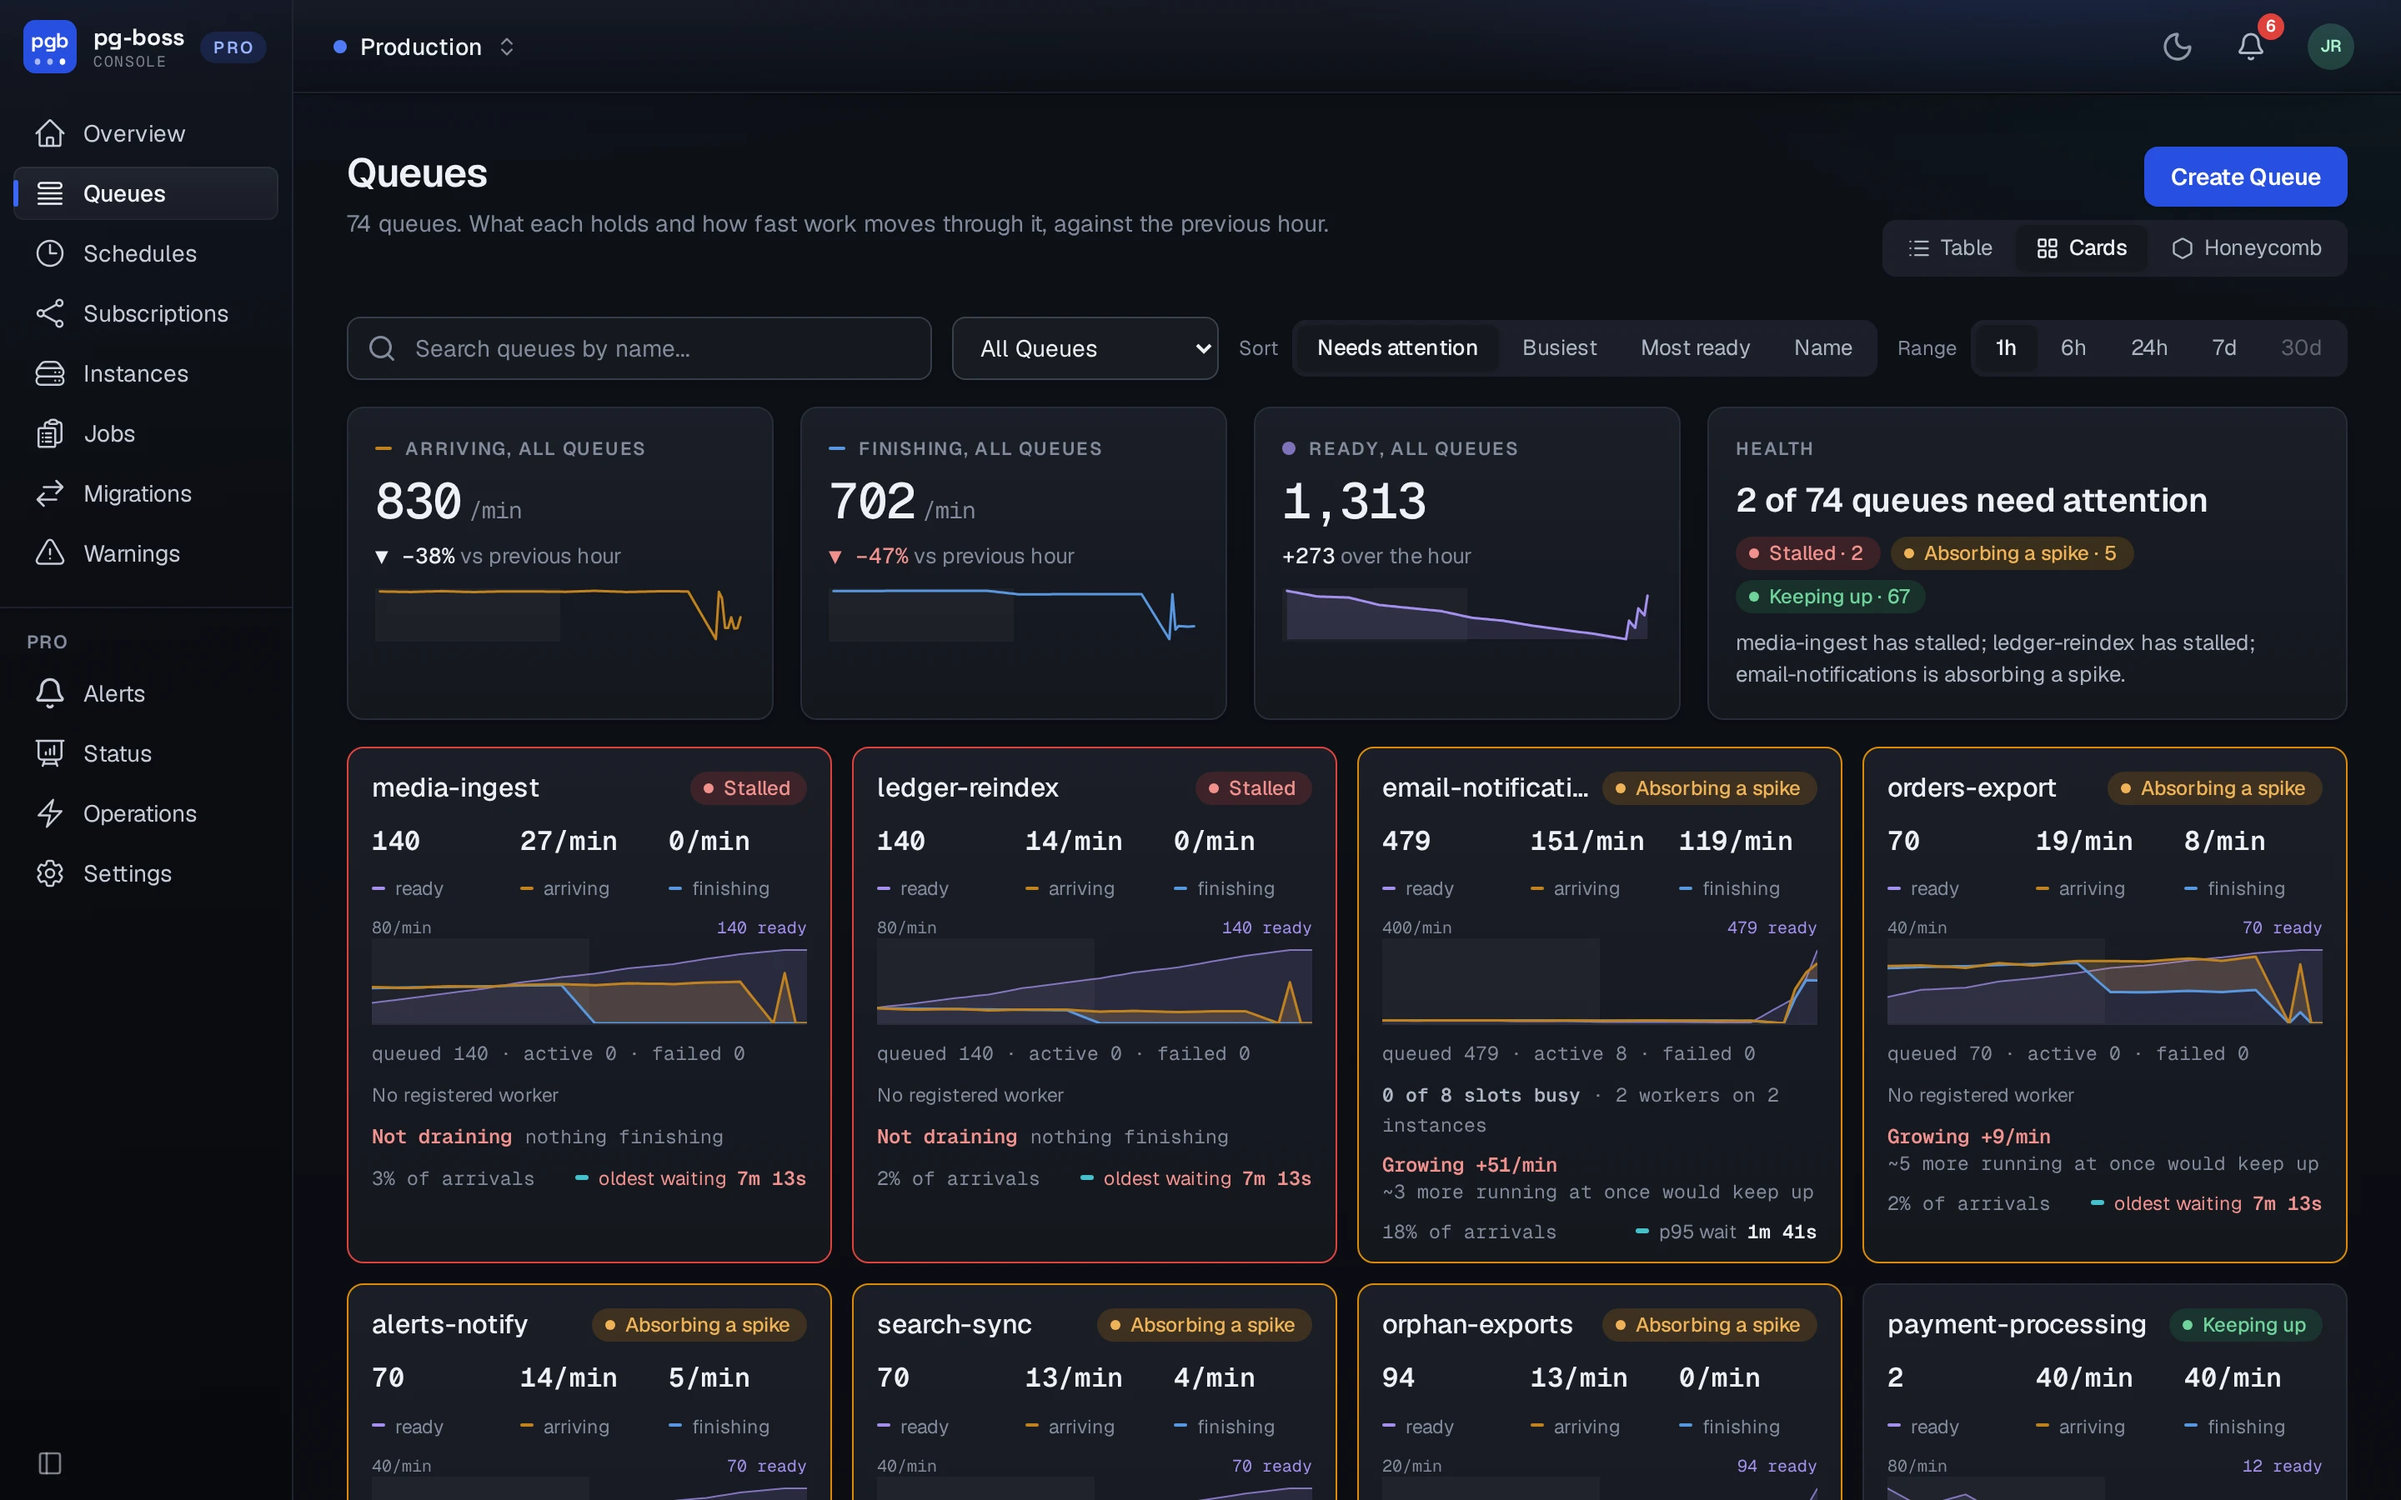
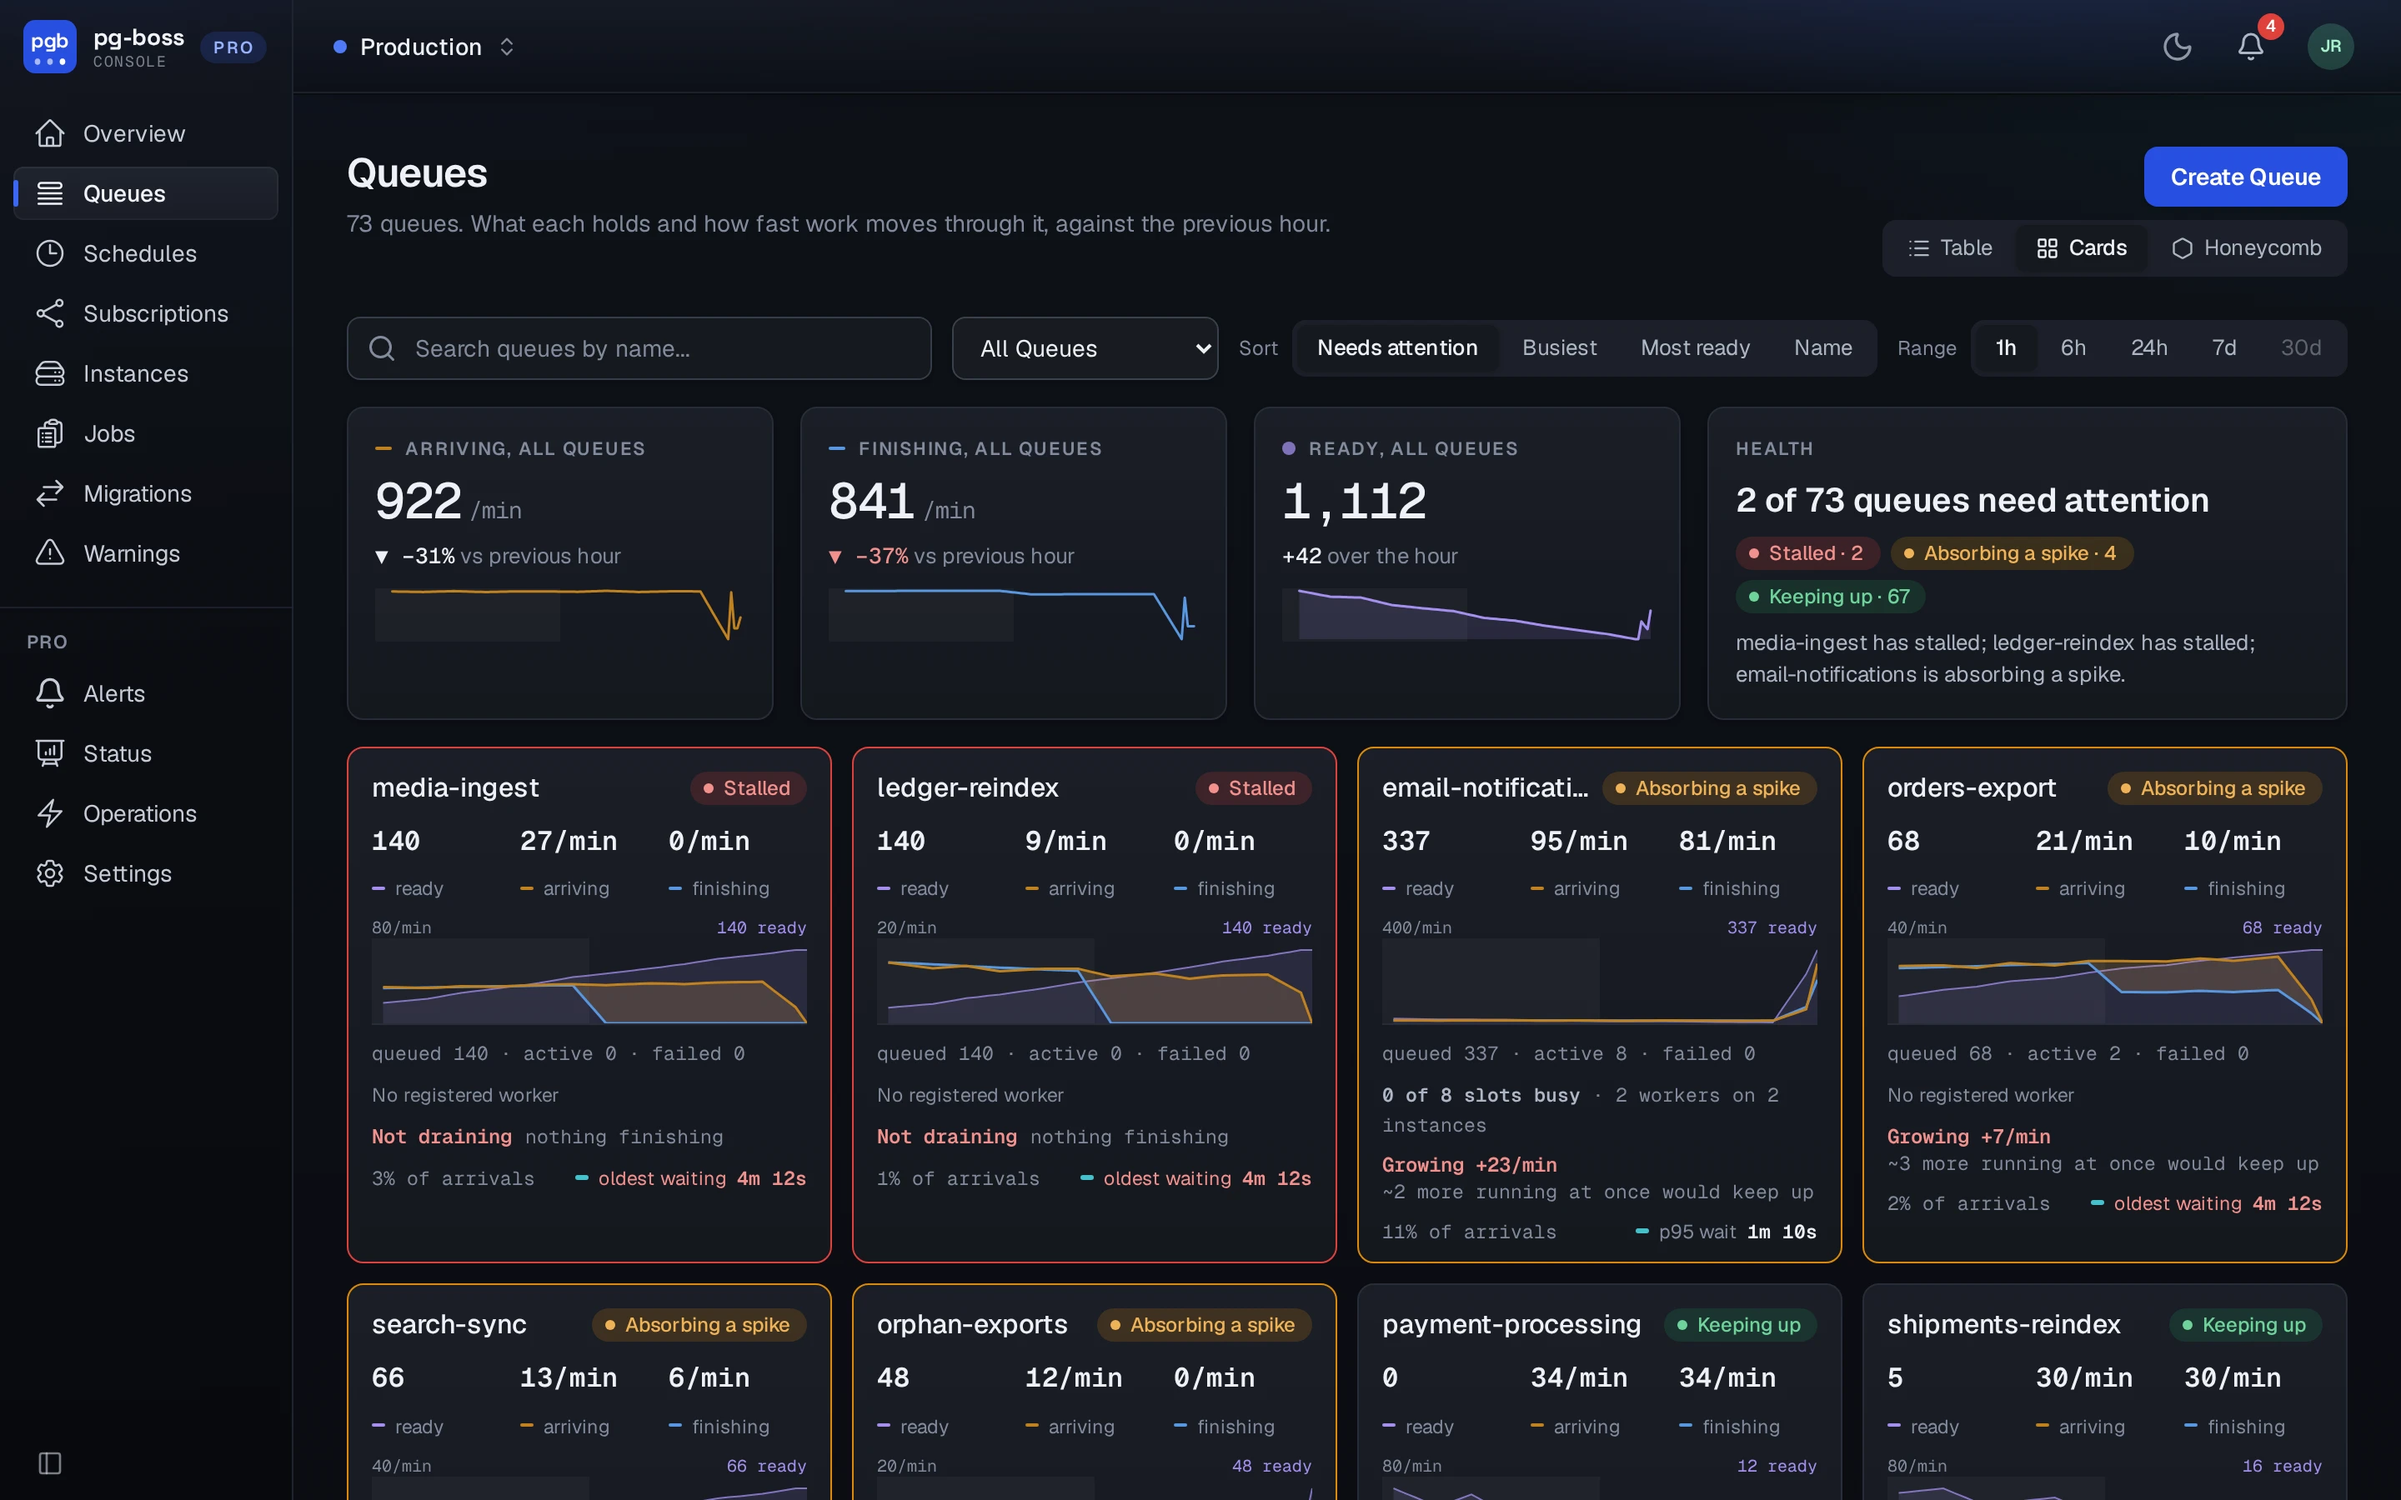
docs: Pro's queues page shows the honeycomb

diff --git a/docs/pro/queues.md b/docs/pro/queues.md
@@ -30,6 +30,9 @@ The queue list shows each queue's rates, health, time to drain and workers, with
 ![The queues page](../images/pro/queues.webp){.light-only}
 ![The queues page](../images/pro/queues-dark.webp){.dark-only}
 
+![The honeycomb of every queue](../images/pro/queues-honeycomb.webp){.light-only}
+![The honeycomb of every queue](../images/pro/queues-honeycomb-dark.webp){.dark-only}
+
 ## Queue detail
 
 A queue's page adds its arrival and finishing rates, p95 wait and run times against the previous period, time to drain, and its health with the reasons for it. Its charts share one time axis: throughput, backlog, wait time and run time.
